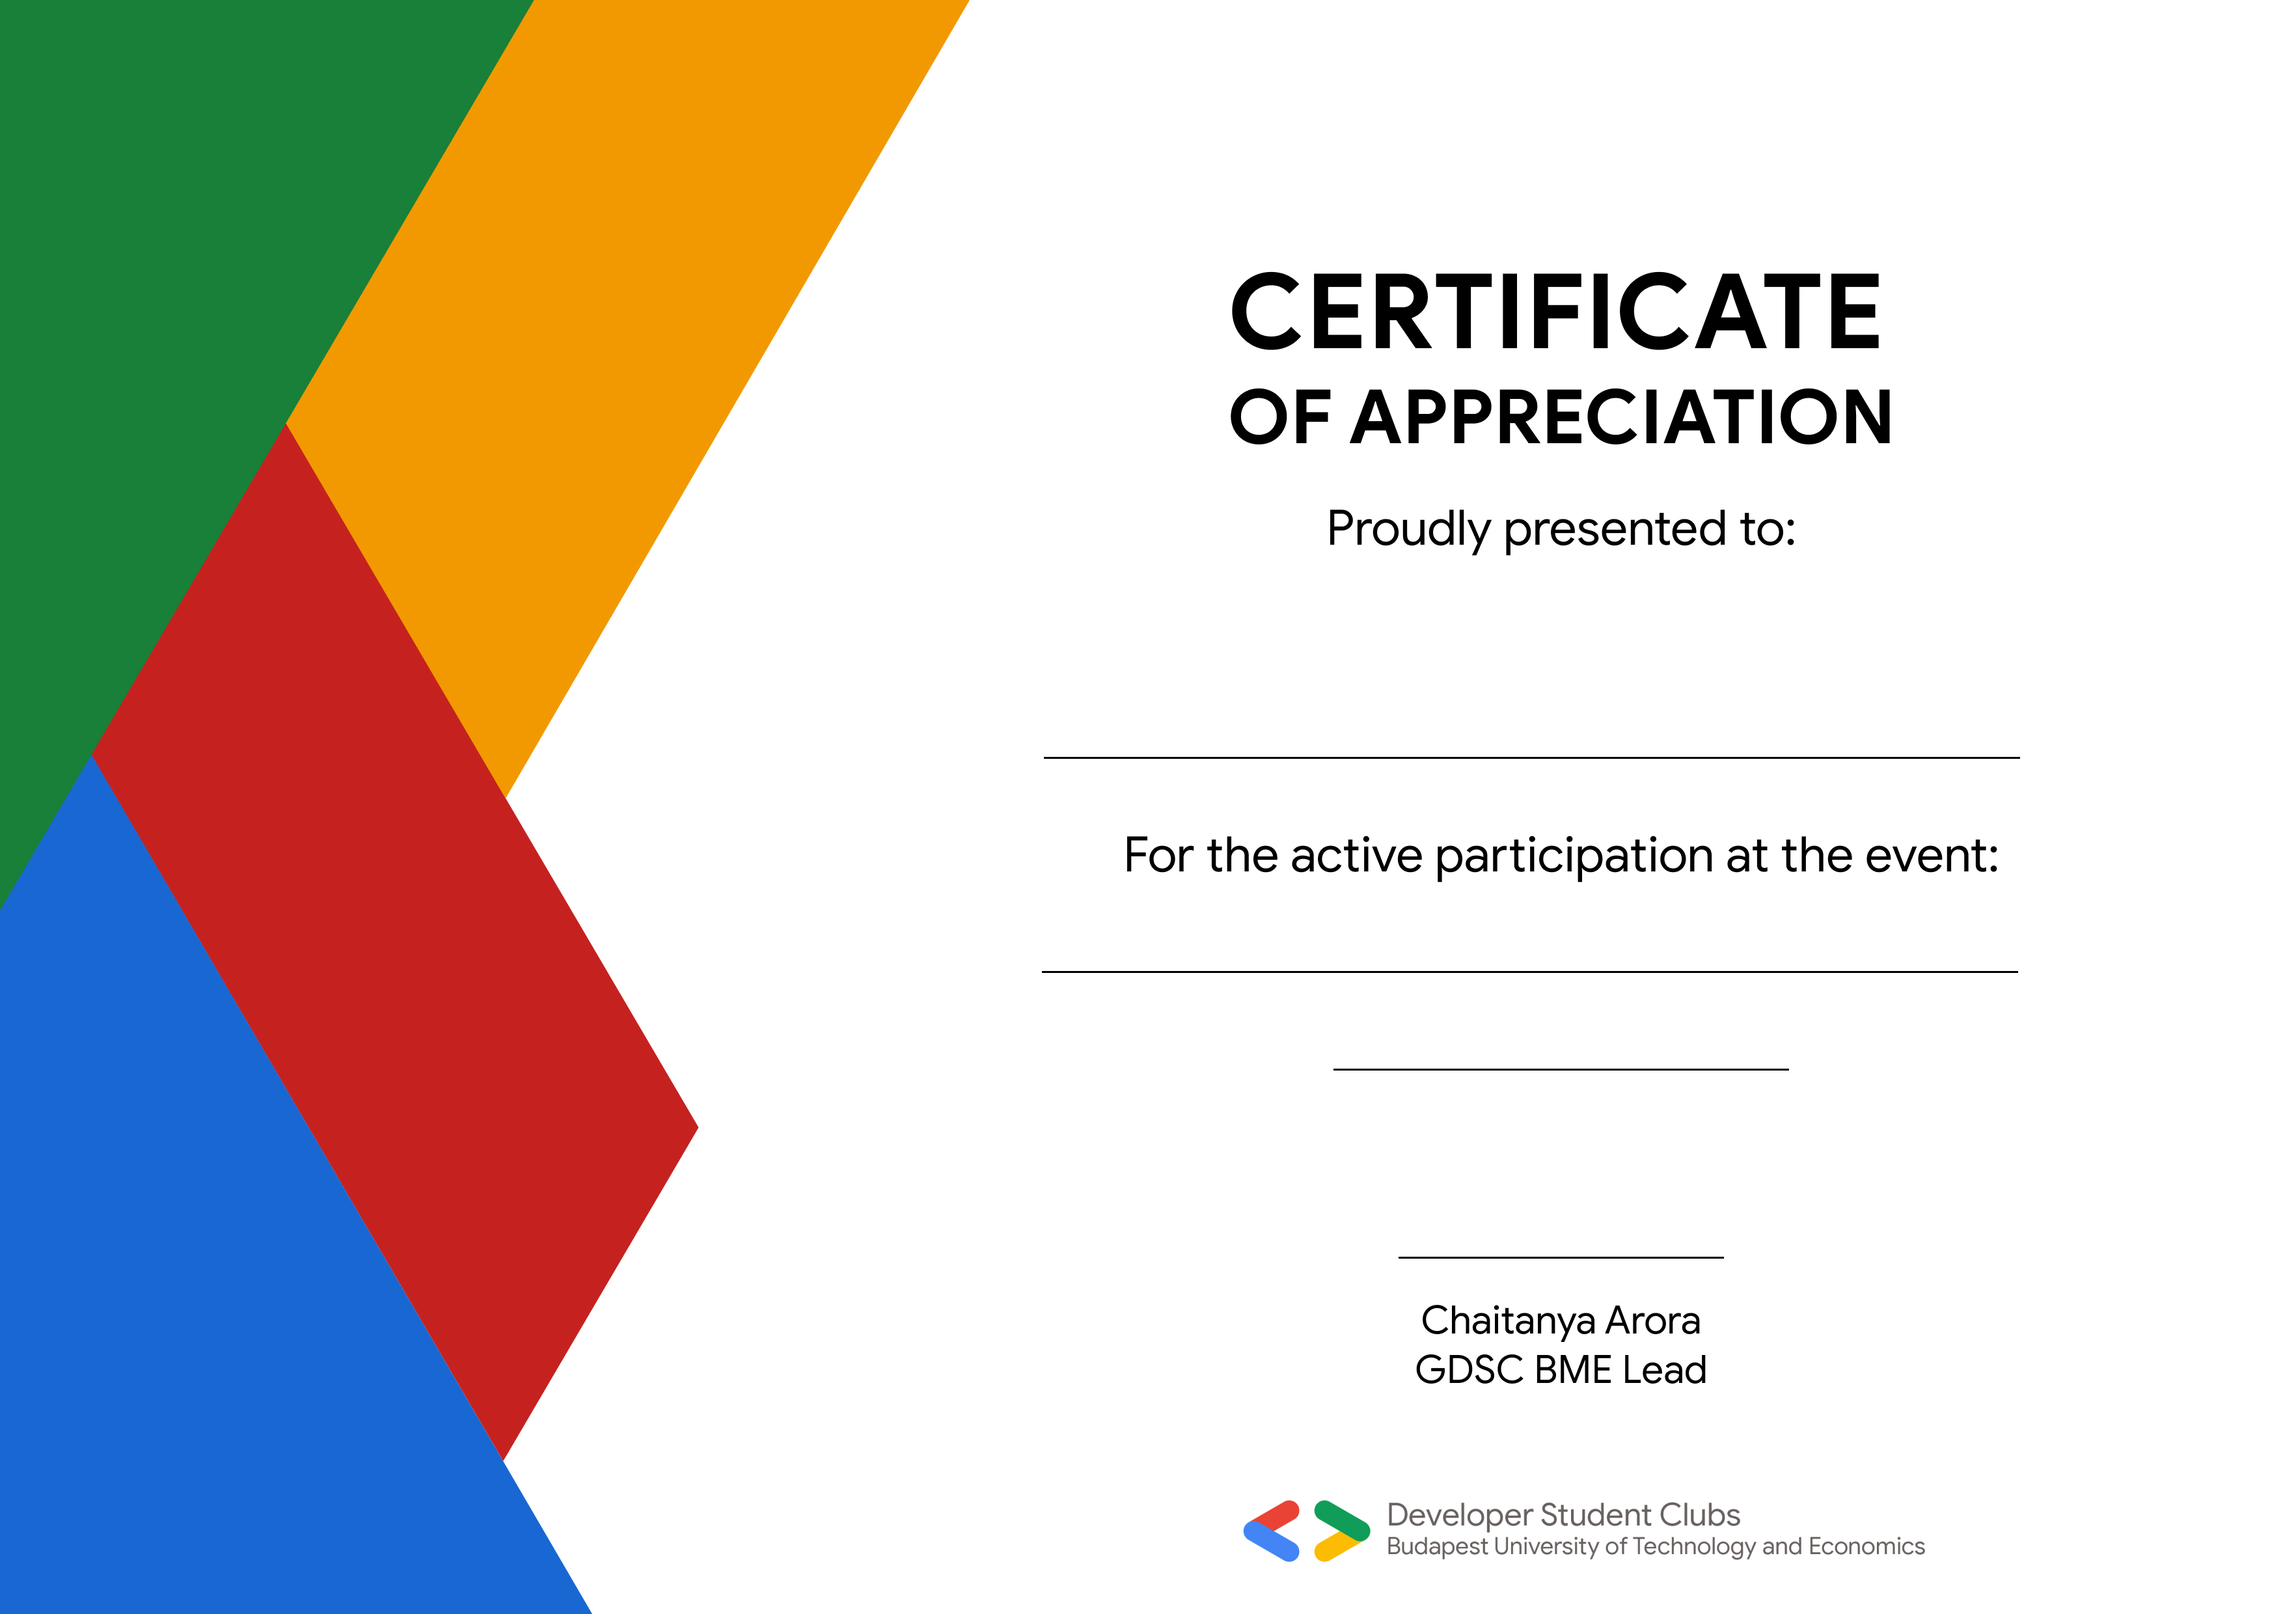
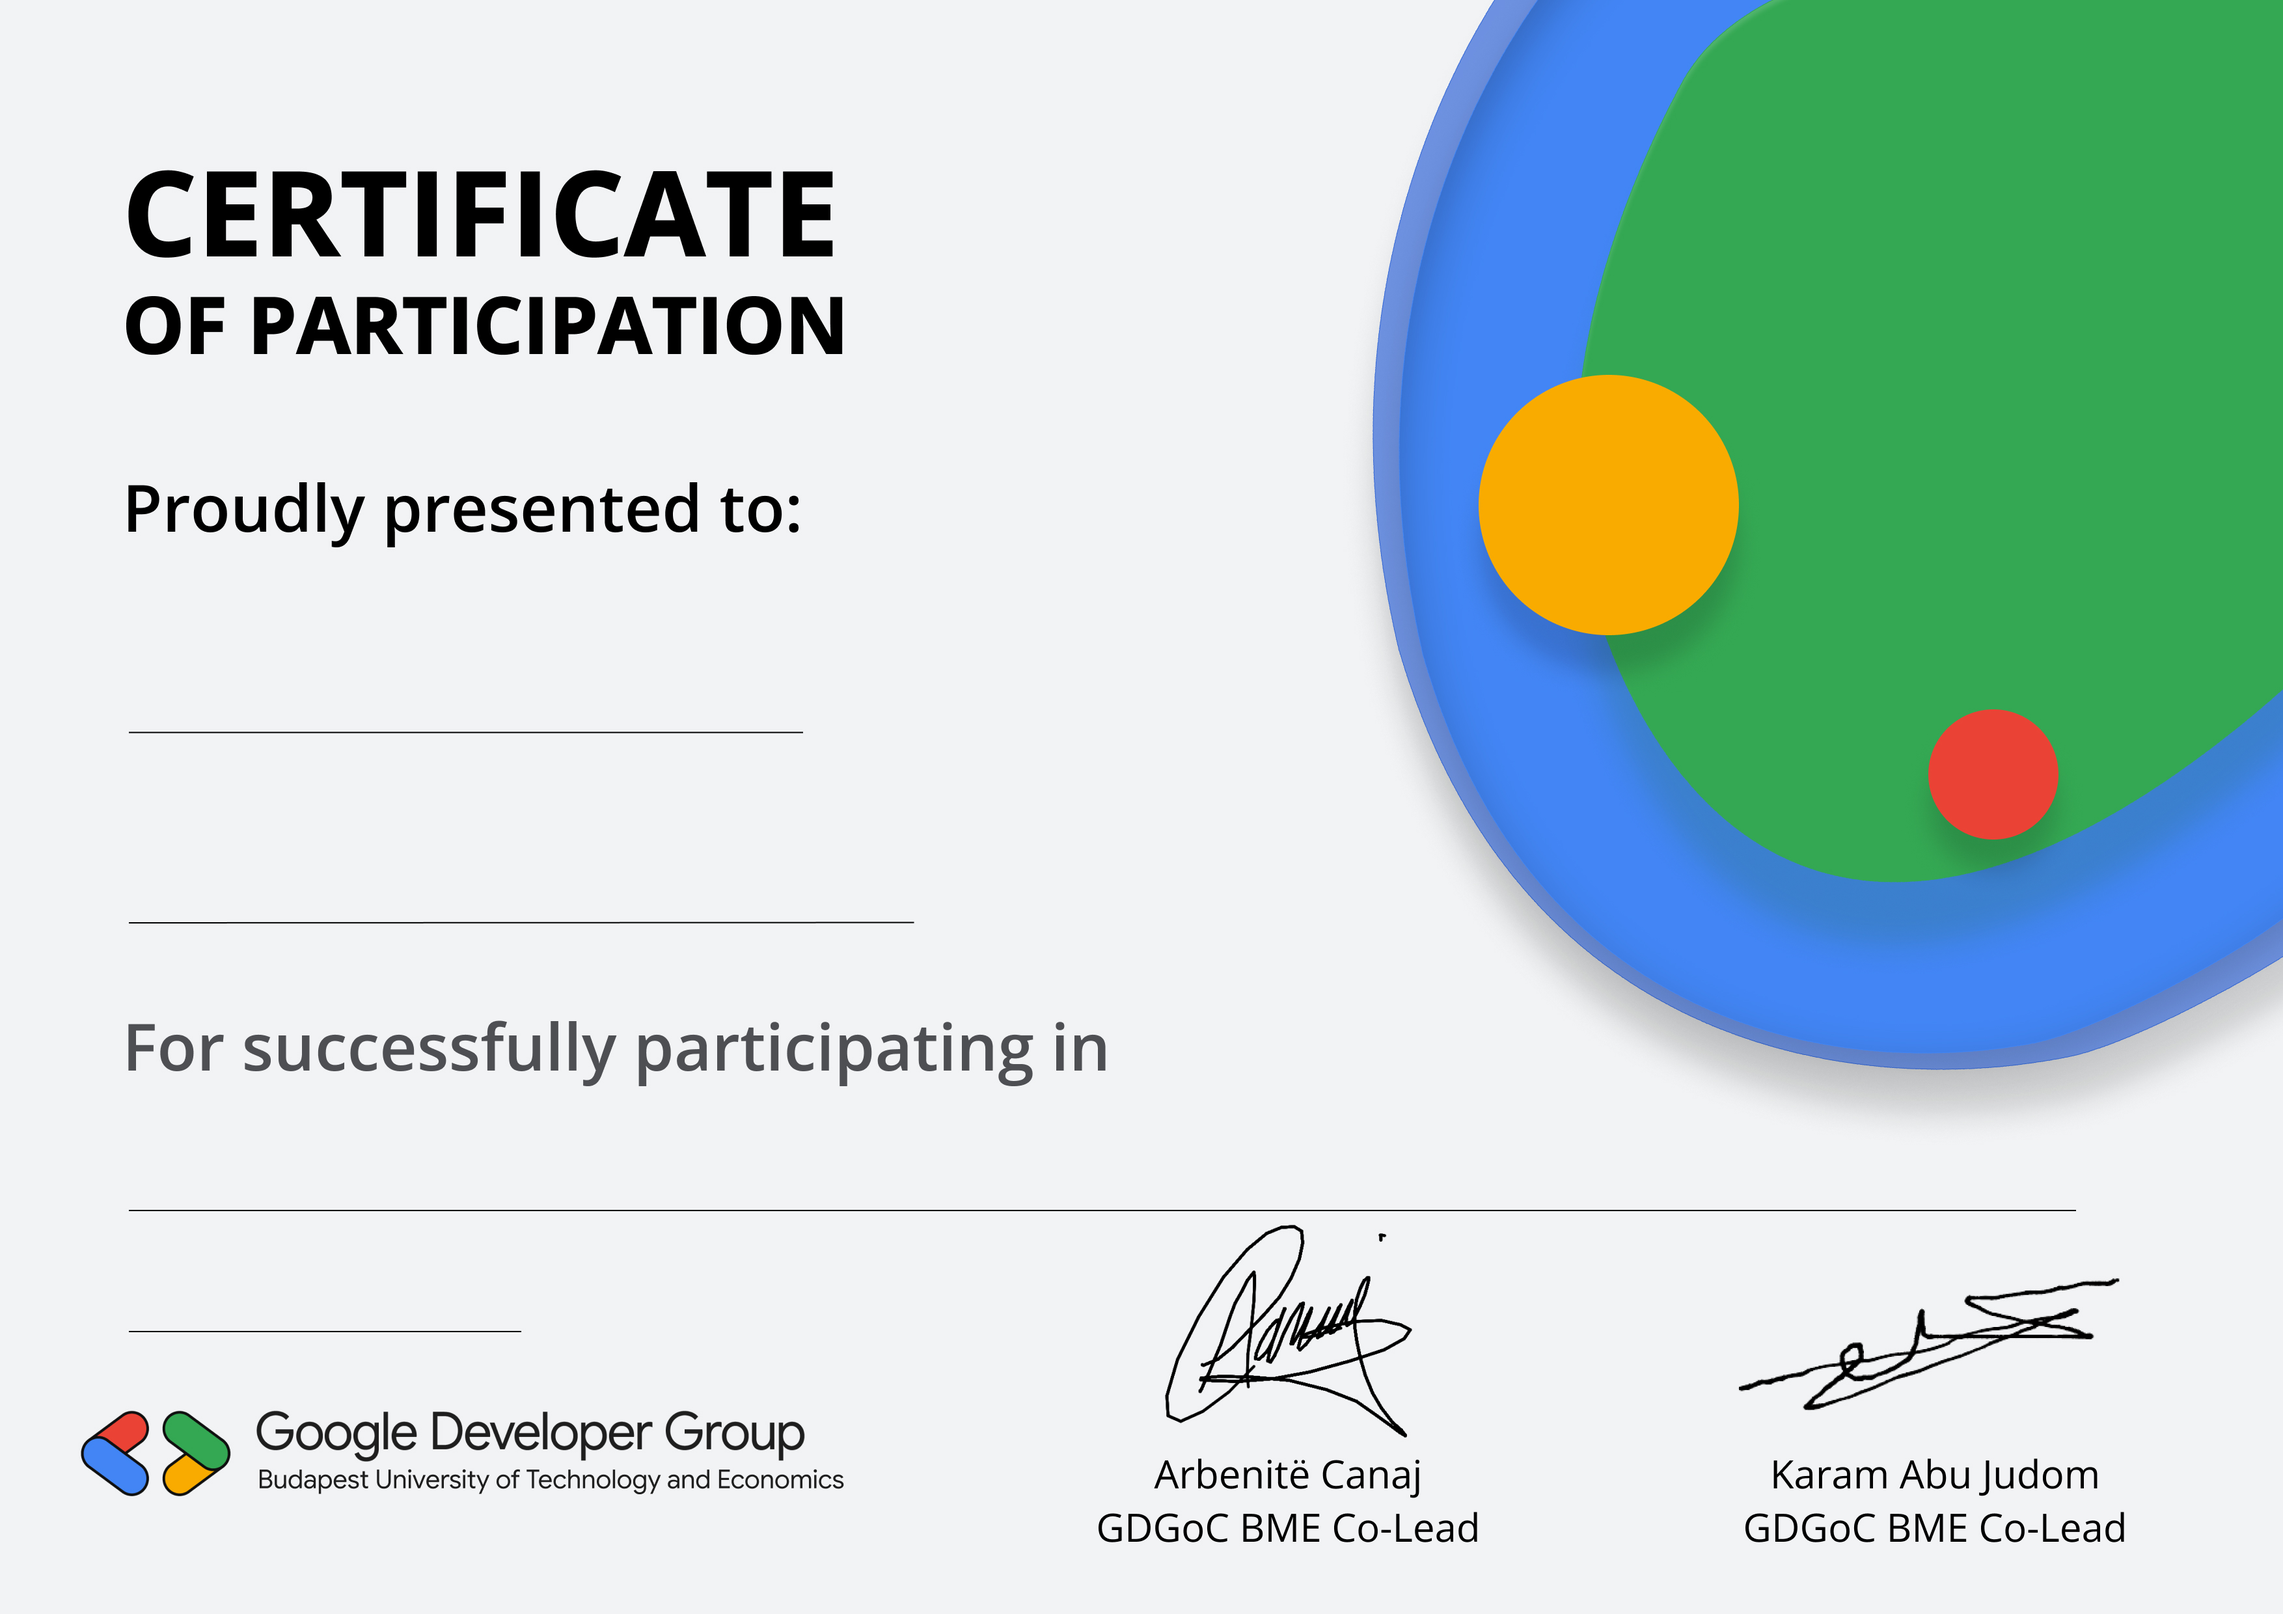
Update 2026 certificate text placement with auto-scaling

diff --git a/certificateEditor.py b/certificateEditor.py
@@ -1,45 +1,150 @@
+from __future__ import annotations
+
+from pathlib import Path
+from datetime import datetime
+from typing import List, Tuple
+
 from PIL import Image, ImageDraw, ImageFont
-import numpy as np
-import os
 
-name_font_path = "Open_Sans\static\OpenSans-Bold.ttf"
-regular_font_path = "Open_Sans\static\OpenSans-Regular.ttf"
-# This function will take parameters from the user input via the GUI, and its output will be .jpg certificates corresponding to each name in the .csv
-def edit_certificate(template_path, attendees_list, eventTitle, eventDate, name_font_path, regular_font_path, save_dir):
+
+# --- Windows-safe font paths ---
+BASE_DIR = Path(__file__).resolve().parent
+name_font_path = str(BASE_DIR / "Open_Sans" / "static" / "OpenSans-Bold.ttf")
+regular_font_path = str(BASE_DIR / "Open_Sans" / "static" / "OpenSans-Regular.ttf")
+
+
+# Reference design size (the coordinates below were measured against this)
+REF_W, REF_H = 2048, 1447
+
+# Reference coordinates for 2026 layout (on REF_W x REF_H)
+NAME_X_R = 115
+NAME_Y1_R = 520
+
+EVENT_X_R = 115
+EVENT_Y_R = 1015
+
+DATE_X_R = 115
+DATE_Y_R = 1125
+
+MAX_NAME_WIDTH_R = 1200
+MAX_EVENT_WIDTH_R = 1750
+
+# Reference font sizes (scaled automatically)
+NAME_FONT_START_R = 165
+NAME_FONT_MIN_R = 95
+
+EVENT_FONT_START_R = 62
+EVENT_FONT_MIN_R = 36
+
+DATE_FONT_R = 44
+
+LINE_PADDING_R = 25
+
+
+def _split_name_two_lines(full_name: str) -> Tuple[str, str]:
+    parts = full_name.strip().split()
+    if len(parts) <= 1:
+        return full_name.strip(), ""
+    return parts[0], " ".join(parts[1:])
+
+
+def _pretty_date_ddmmyyyy(date_text: str) -> str:
+    dt = datetime.strptime(date_text.strip(), "%d/%m/%Y")
+    return f"{dt.strftime('%B')} {dt.day}, {dt.year}"
+
+
+def _safe_filename(name: str) -> str:
+    bad = '<>:"/\\|?*'
+    cleaned = "".join("_" if c in bad else c for c in name).strip()
+    return cleaned if cleaned else "certificate"
+
+
+def _fit_font(draw: ImageDraw.ImageDraw, text: str, font_path: str, start: int, min_size: int, max_width: int):
+    size = start
+    step = max(2, start // 60)  # scales step a bit for large images
+    while size >= min_size:
+        font = ImageFont.truetype(font_path, size)
+        if draw.textlength(text, font=font) <= max_width:
+            return font
+        size -= step
+    return ImageFont.truetype(font_path, min_size)
+
+
+def edit_certificate(
+    template_path: str,
+    attendees_list: List[str],
+    eventTitle: str,
+    eventDate: str,
+    name_font_path: str,
+    regular_font_path: str,
+    save_dir: str,
+):
+    save_dir_path = Path(save_dir)
+    save_dir_path.mkdir(parents=True, exist_ok=True)
+
     list_of_jpgs_paths = []
-    for index, name in enumerate(attendees_list):
-        template = Image.open(template_path)
+
+    for index, full_name in enumerate(attendees_list):
+        template = Image.open(template_path).convert("RGB")
         draw = ImageDraw.Draw(template)
-        font_size = 120
-        font = ImageFont.truetype(name_font_path, font_size)
-        text_width = draw.textlength(name, font=font)
-        # The X coordinate is the midpoint of the line minus half the text width. The midpoint of the line is 2353 in this case.
 
-        startX = 2353 - (text_width // 2)
-        startY = 1030
+        W, H = template.size
+        sx = W / REF_W
+        sy = H / REF_H
+        s = (sx + sy) / 2  # scale factor for fonts/padding
 
-        # Set the font size for the eventTitle and eventDate
-        eventTitle_font_size = 65
-        eventTitle_font = ImageFont.truetype(regular_font_path, eventTitle_font_size)
+        # Scale coordinates
+        NAME_X = int(round(NAME_X_R * sx))
+        NAME_Y1 = int(round(NAME_Y1_R * sy))
 
-        eventDate_font_size = 65
-        eventDate_font = ImageFont.truetype(regular_font_path, eventDate_font_size)
+        EVENT_X = int(round(EVENT_X_R * sx))
+        EVENT_Y = int(round(EVENT_Y_R * sy))
 
-        eventTitle_text_width = draw.textlength(eventTitle, font=eventTitle_font)
-        eventDate_text_width = draw.textlength(eventDate, font=eventDate_font)
-        # Set the starting coordinates for the eventTitle and eventDate
-        eventTitle_startX = 2353 - (eventTitle_text_width // 2)  # adjust these values as needed, this is to centralize text
-        eventTitle_startY = 1413  # adjust these values as needed
-        eventDate_startX = 2353 - (eventDate_text_width // 2)  # adjust these values as needed, this is to centralize text
-        eventDate_startY = 1559  # adjust these values as needed
-        
-        draw.text((eventTitle_startX, eventTitle_startY), eventTitle, (0, 0, 0), font=eventTitle_font)
-        draw.text((eventDate_startX, eventDate_startY), eventDate, (0, 0, 0), font=eventDate_font)
-        draw.text((startX, startY), name, (0, 0, 0), font=font)
-            
-        output_path = rf'{save_dir}\{name}.jpg'
-        template.save(output_path)
-        list_of_jpgs_paths.append(output_path)
-        print(f'Processing Certificate {index+1}/{len(attendees_list)}')
+        DATE_X = int(round(DATE_X_R * sx))
+        DATE_Y = int(round(DATE_Y_R * sy))
+
+        MAX_NAME_WIDTH = int(round(MAX_NAME_WIDTH_R * sx))
+        MAX_EVENT_WIDTH = int(round(MAX_EVENT_WIDTH_R * sx))
+
+        # Scale fonts
+        NAME_FONT_START = int(round(NAME_FONT_START_R * s))
+        NAME_FONT_MIN = int(round(NAME_FONT_MIN_R * s))
+
+        EVENT_FONT_START = int(round(EVENT_FONT_START_R * s))
+        EVENT_FONT_MIN = int(round(EVENT_FONT_MIN_R * s))
+
+        DATE_FONT_SIZE = int(round(DATE_FONT_R * s))
+        LINE_PADDING = int(round(LINE_PADDING_R * s))
+
+        # ---- Name (two lines) ----
+        first, second = _split_name_two_lines(full_name)
+
+        font1 = _fit_font(draw, first, name_font_path, start=NAME_FONT_START, min_size=NAME_FONT_MIN, max_width=MAX_NAME_WIDTH)
+        draw.text((NAME_X, NAME_Y1), first, fill=(0, 0, 0), font=font1)
+
+        if second:
+            bbox1 = draw.textbbox((NAME_X, NAME_Y1), first, font=font1)
+            line1_h = bbox1[3] - bbox1[1]
+            name_y2 = NAME_Y1 + line1_h + LINE_PADDING
+
+            font2 = _fit_font(draw, second, name_font_path, start=NAME_FONT_START, min_size=NAME_FONT_MIN, max_width=MAX_NAME_WIDTH)
+            draw.text((NAME_X, name_y2), second, fill=(0, 0, 0), font=font2)
+
+        # ---- Event title ----
+        event_title = (eventTitle or "").strip().upper()
+        event_font = _fit_font(draw, event_title, name_font_path, start=EVENT_FONT_START, min_size=EVENT_FONT_MIN, max_width=MAX_EVENT_WIDTH)
+        draw.text((EVENT_X, EVENT_Y), event_title, fill=(0, 0, 0), font=event_font)
+
+        # ---- Date ----
+        pretty_date = _pretty_date_ddmmyyyy(eventDate)
+        date_font = ImageFont.truetype(regular_font_path, DATE_FONT_SIZE)
+        draw.text((DATE_X, DATE_Y), pretty_date, fill=(120, 120, 120), font=date_font)
+
+        out_name = _safe_filename(full_name) + ".jpg"
+        output_path = save_dir_path / out_name
+        template.save(output_path, quality=95)
+
+        list_of_jpgs_paths.append(str(output_path))
+        print(f"Processing Certificate {index + 1}/{len(attendees_list)}")
+
     return list_of_jpgs_paths
-
